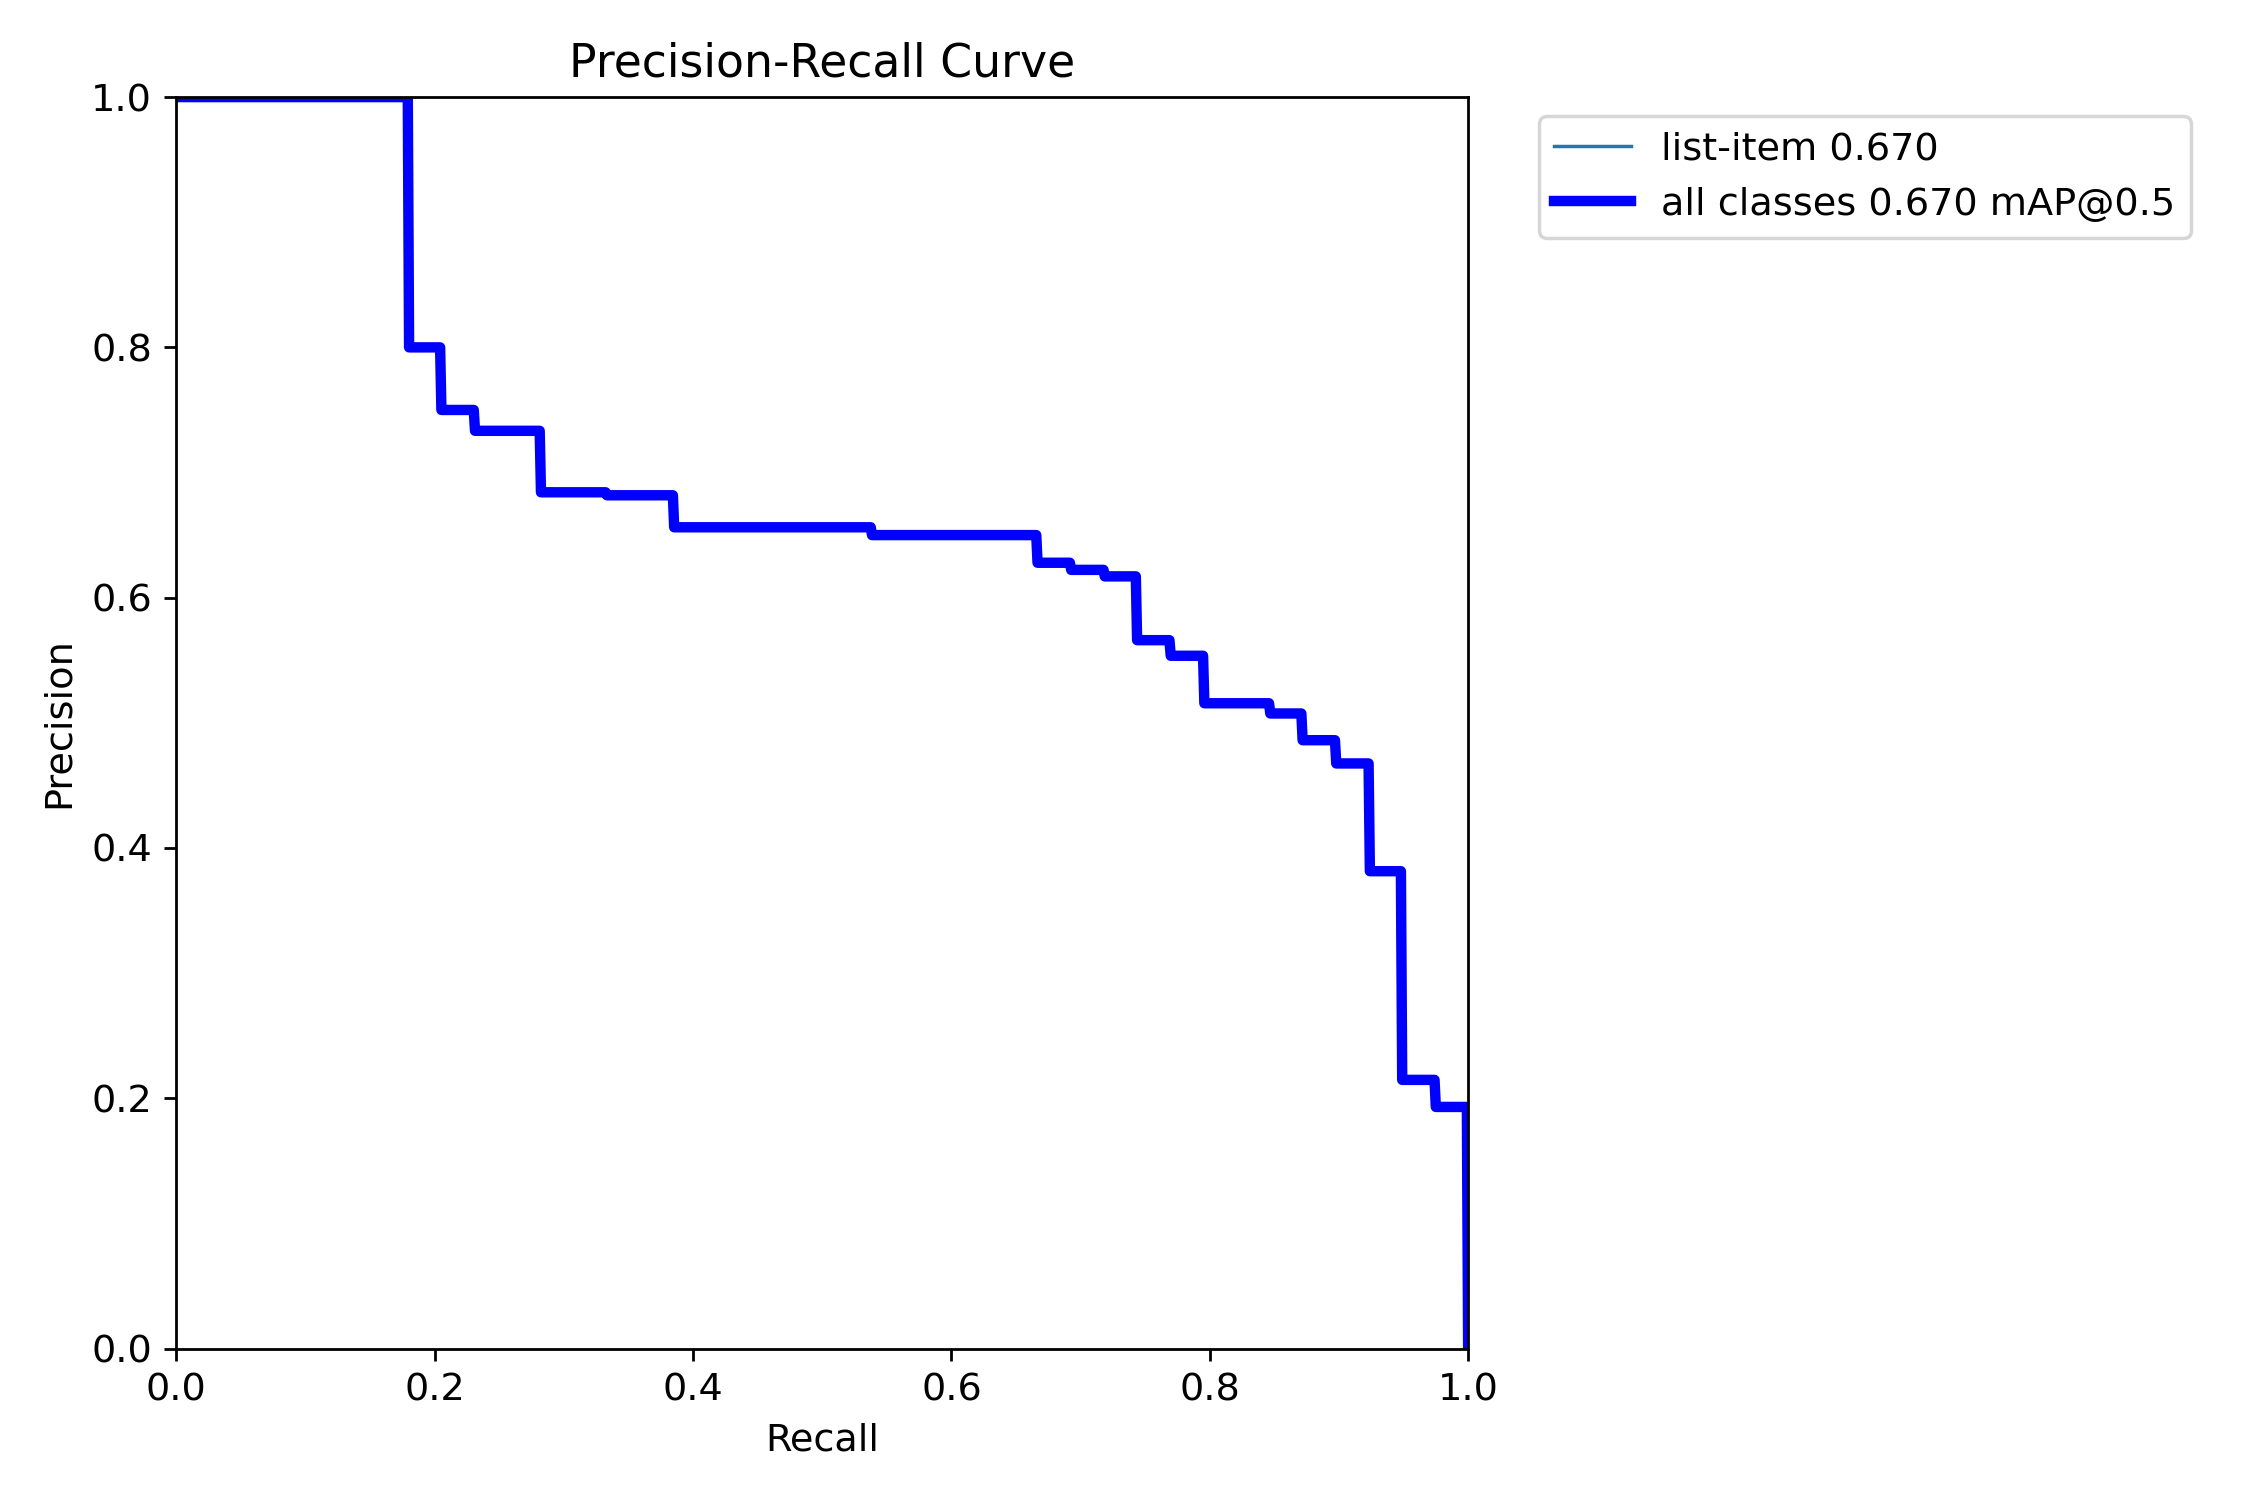
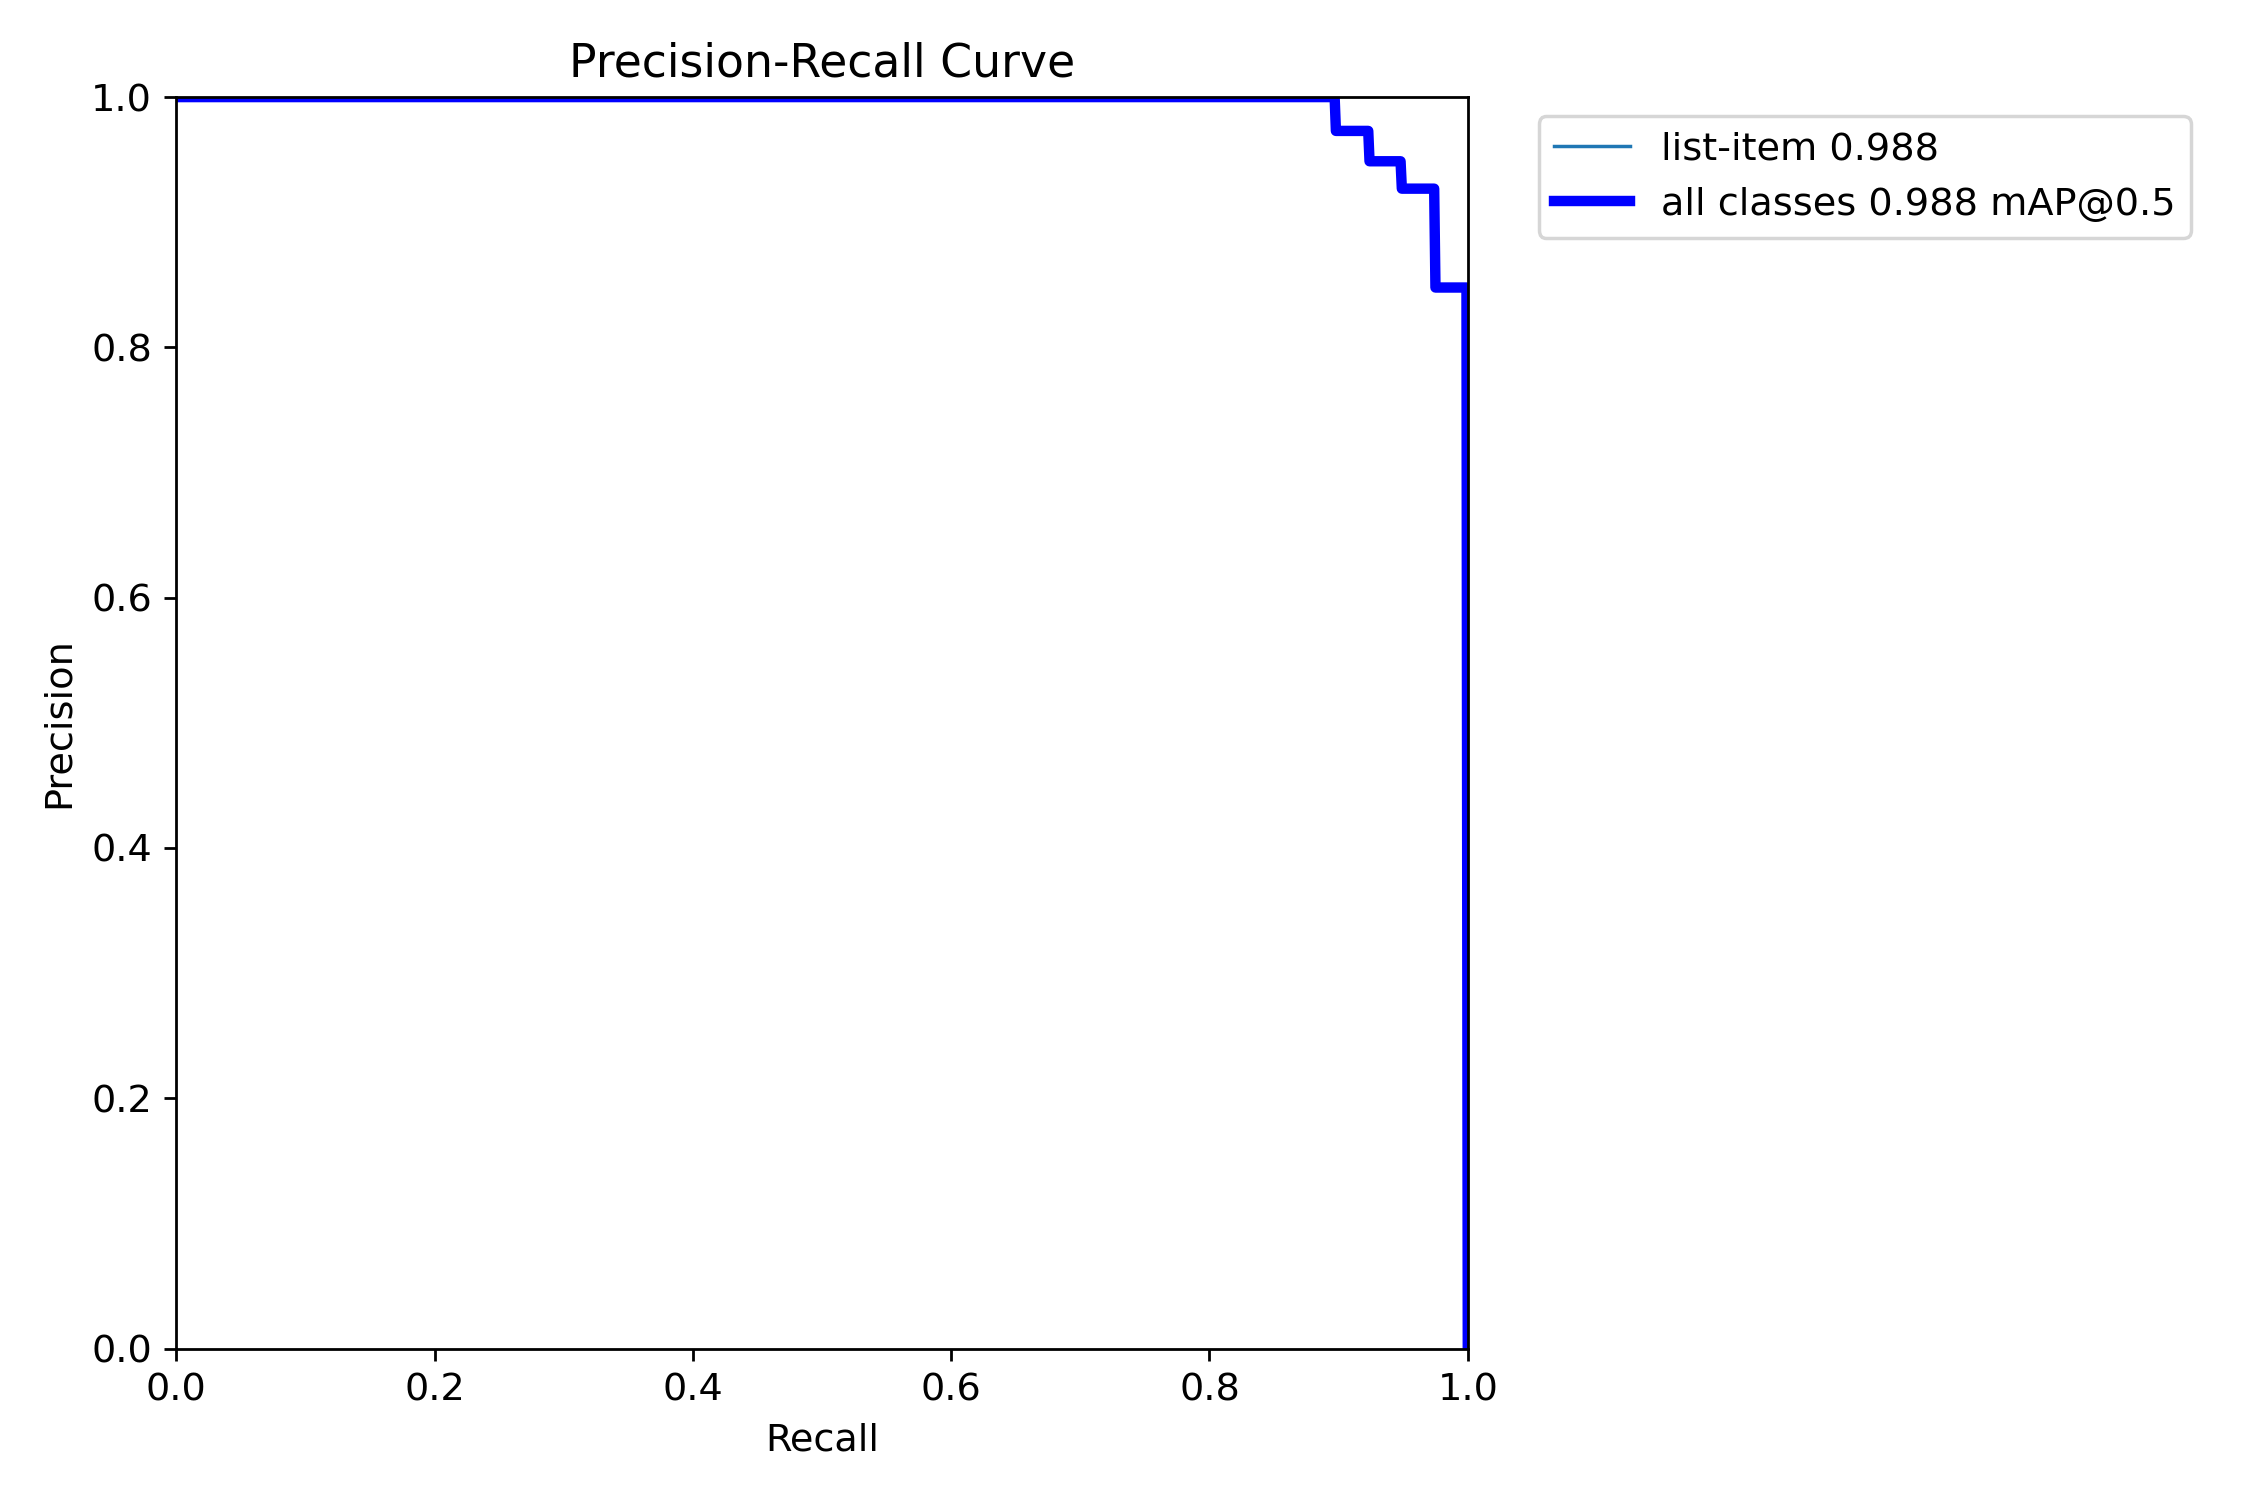
feat(object-detection): Enhance YOLOv8 training and debugging for Shosetsu list item detection
- Add debug_annotations.py script for visualizing YOLO annotations
- Update training configuration with larger image size (1280) and reduced batch size (4)
- Modify test_real_image.py to include detailed detection confidence debugging
- Regenerate training metrics and visualization graphs with new configuration
- Lower object detection confidence threshold for more comprehensive detection
- Improve logging and diagnostic information for model performance

diff --git a/debug_annotations.py b/debug_annotations.py
@@ -1,0 +1,83 @@
+#!/usr/bin/env python3
+"""
+アノテーションのデバッグスクリプト
+YOLO形式のアノテーションを可視化
+"""
+
+import cv2
+from pathlib import Path
+
+
+def yolo_to_bbox(yolo_line, img_width, img_height):
+    """YOLO形式（正規化座標）をピクセル座標に変換"""
+    parts = yolo_line.strip().split()
+    class_id = int(parts[0])
+    center_x = float(parts[1]) * img_width
+    center_y = float(parts[2]) * img_height
+    width = float(parts[3]) * img_width
+    height = float(parts[4]) * img_height
+    
+    x1 = int(center_x - width / 2)
+    y1 = int(center_y - height / 2)
+    x2 = int(center_x + width / 2)
+    y2 = int(center_y + height / 2)
+    
+    return class_id, x1, y1, x2, y2
+
+
+def main():
+    # トレーニング画像とアノテーションのパス
+    image_path = Path("temp/shosetsu-list-item_dataset/obj_train_data/IMG_1307.png")
+    annotation_path = Path("temp/shosetsu-list-item_dataset/obj_train_data/IMG_1307.txt")
+    
+    # 画像を読み込み
+    image = cv2.imread(str(image_path))
+    if image is None:
+        print(f"❌ 画像が読み込めません: {image_path}")
+        return
+    
+    height, width = image.shape[:2]
+    print(f"画像サイズ: {width}x{height}")
+    print()
+    
+    # アノテーションを読み込み
+    with open(annotation_path, 'r') as f:
+        lines = f.readlines()
+    
+    print(f"アノテーション数: {len(lines)}")
+    print()
+    
+    # 各アノテーションを描画
+    for i, line in enumerate(lines, 1):
+        class_id, x1, y1, x2, y2 = yolo_to_bbox(line, width, height)
+        
+        print(f"検出 {i}:")
+        print(f"  YOLO形式: {line.strip()}")
+        print(f"  ピクセル座標: ({x1}, {y1}) → ({x2}, {y2})")
+        print(f"  サイズ: {x2-x1}x{y2-y1}")
+        print()
+        
+        # 矩形を描画
+        cv2.rectangle(image, (x1, y1), (x2, y2), (0, 255, 0), 3)
+        cv2.putText(
+            image,
+            f"#{i}",
+            (x1, y1 - 10),
+            cv2.FONT_HERSHEY_SIMPLEX,
+            1.0,
+            (0, 255, 0),
+            2
+        )
+    
+    # 結果を保存
+    output_path = Path("temp/annotation_debug.jpg")
+    cv2.imwrite(str(output_path), image)
+    print(f"✅ アノテーション可視化を保存: {output_path}")
+    
+    # 画像を開く
+    import subprocess
+    subprocess.run(["open", str(output_path)])
+
+
+if __name__ == "__main__":
+    main()

diff --git a/test_real_image.py b/test_real_image.py
@@ -37,9 +37,9 @@ def main():
         detector = None
     else:
         print("🔍 YOLOv8モデルを読み込み中...")
-        detector = ObjectDetector(str(model_path), confidence_threshold=0.3)  # しきい値を下げて検出しやすく
+        detector = ObjectDetector(str(model_path), confidence_threshold=0.1)  # しきい値を大幅に下げて実験
         print(f"✅ モデル読み込み完了（デバイス: {detector.device}）")
-        print(f"   信頼度しきい値: 0.3")
+        print(f"   信頼度しきい値: 0.1")
         print()
     
     # OCRプロセッサの初期化
@@ -57,8 +57,25 @@ def main():
     # 物体検出を実行
     if detector:
         print("🎯 物体検出を実行中...")
+        
+        # デバッグ: しきい値なしで全検出結果を取得
+        print("   デバッグ: しきい値なしで検出を実行...")
+        from ultralytics import YOLO
+        model = YOLO(str(model_path))
+        results = model(frame, verbose=False)
+        
+        if results and len(results) > 0:
+            boxes = results[0].boxes
+            print(f"   生の検出数: {len(boxes)}")
+            if len(boxes) > 0:
+                print(f"   信頼度の範囲: {boxes.conf.min():.3f} - {boxes.conf.max():.3f}")
+                print(f"   各検出の信頼度:")
+                for i, conf in enumerate(boxes.conf):
+                    print(f"      検出 {i+1}: {conf:.3f}")
+        print()
+        
         detections = detector.detect(frame)
-        print(f"✅ {len(detections)}個のリストアイテムを検出")
+        print(f"✅ しきい値 0.1 以上: {len(detections)}個のリストアイテムを検出")
         print()
         
         if detections:

diff --git a/train_yolov8.py b/train_yolov8.py
@@ -49,8 +49,8 @@ def main():
     # トレーニング設定
     print("⚙  トレーニング設定:")
     epochs = 100
-    imgsz = 640
-    batch = 8
+    imgsz = 1280  # 元画像のアスペクト比を考慮して大きめに
+    batch = 4  # 画像サイズが大きいのでバッチサイズを減らす
     patience = 20  # Early stopping
     
     print(f"   - エポック数: {epochs}")
